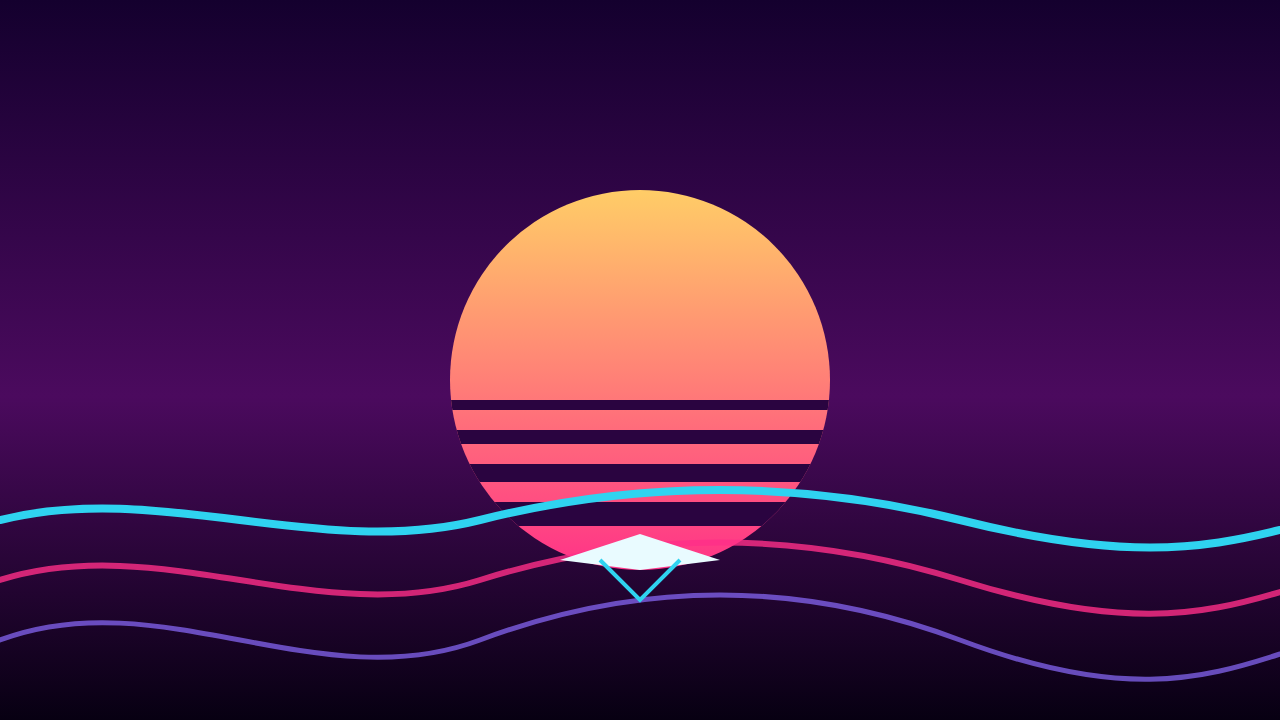
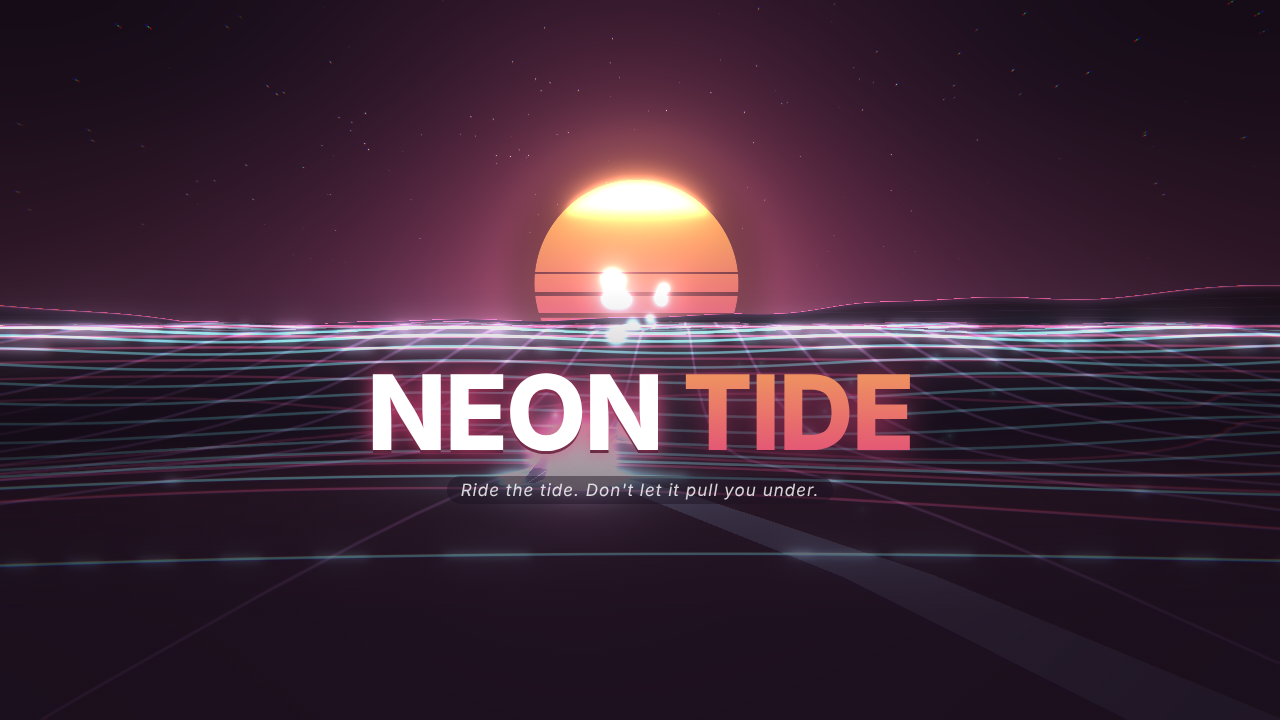
games: Neon Tide (Three.js, adaptive Web Audio score)
Claude-Session: https://claude.ai/code/session_01YPNhuappbemh5BXpNBxwCt

diff --git a/web/public/games/neon-tide/index.html b/web/public/games/neon-tide/index.html
@@ -109,6 +109,7 @@ body.rm #banner.show{animation:none}
 .item .val{font:600 12px var(--mono);color:var(--teal);min-width:46px;text-align:right}
 .item .ctl{display:flex;align-items:center;gap:10px}
 .credit{margin-top:14px;font:500 11px var(--mono);color:rgba(255,255,255,.4);text-align:center;letter-spacing:.06em}
+@media (max-width:600px){#modeTag{display:none}#gap{width:56vw}}
 @media (max-height:520px){#logo{top:12px}#logo h1{font-size:44px}#logo p{margin-top:4px}.item{padding:9px 14px}.panel{padding:16px 20px}#title .foot{display:none}}
 </style>
 </head>
@@ -643,6 +644,7 @@ body.rm #banner.show{animation:none}
     this.applyVolumes();
     this.started = true;
     this.nextT = c.currentTime + 0.08;
+    if (this.pending) this.switchNow();
     this.timer = setInterval(function () { self.tick(); }, 25);
   };
 
@@ -684,7 +686,7 @@ body.rm #banner.show{animation:none}
   P.play = function (name) {
     if (name === this.songName && !this.pending) return;
     this.pending = name;
-    if (!this.ctx) { this.songName = name; this.pending = null; return; }
+    if (!this.ctx) return;
     if (this.songName === 'none' || this.songName === 'caught') this.switchNow();
   };
   P.switchNow = function () {
@@ -1338,7 +1340,7 @@ body.rm #banner.show{animation:none}
   function getMesh(type) {
     var p = pools[type] || (pools[type] = []);
     var m = p.pop();
-    if (!m) { m = makers[type](); scene.add(m); }
+    if (!m) { m = makers[type](); m.userData.type = type; scene.add(m); }
     m.visible = true; return m;
   }
   function releaseAll() { for (var id in live) { var m = live[id]; m.visible = false; pools[m.userData.type].push(m); } live = {}; }
@@ -1746,7 +1748,7 @@ body.rm #banner.show{animation:none}
           if (!isDemo) { audio.sfx('orb', e.chain); if (e.full) toast(isTouch ? 'BOOST READY  ·  two-finger tap' : 'BOOST READY  ·  SHIFT / B'); }
           break;
         case 'gate':
-          var gm = live[e.id]; if (gm) gm.userData.flash = 1;
+          var gm = live[OT.GATE * 1e7 + e.id]; if (gm) gm.userData.flash = 1;
           if (!isDemo) { audio.sfx('gate'); popText(elPop2, 'GATE +300', 'small teal'); }
           break;
         case 'hit': burst(g.s, x, g.y + 1, 20, C.violet, 8, 0.8, 0.6, 8, g.v * 0.2); break;
@@ -1806,7 +1808,9 @@ body.rm #banner.show{animation:none}
     skyU.uSunTop.value.copy(curLook.top); skyU.uSunBot.value.copy(curLook.bot); skyU.uHorizon.value.copy(curLook.hor);
     waterU.uSunCol.value.copy(curLook.bot).lerp(curLook.top, 0.3);
   }
+  var lastRendered = null;
   function render(dt, alpha, g, playing) {
+    if (g !== lastRendered) { releaseAll(); lastRendered = g; }
     timeAcc += dt;
     var td = g.tide, tick = g.tick - 1 + alpha;
     if (state === 'dying' || state === 'pause') tick = g.tick;
@@ -1868,9 +1872,9 @@ body.rm #banner.show{animation:none}
       var ob = g.objs[i], ds = ob.s - base;
       if (ob.type === OT.WHIRL || ds < -20 || ds > 430) continue;
       if (ob.dead && ob.type !== OT.GATE) continue;
-      var m = live[ob.id];
-      if (!m) { m = getMesh(ob.type); m.userData.type = ob.type; m.userData.flash = 0; live[ob.id] = m; }
-      used[ob.id] = 1;
+      var key = ob.type * 1e7 + ob.id, m = live[key];
+      if (!m) { m = getMesh(ob.type); m.userData.flash = 0; live[key] = m; }
+      used[key] = 1;
       var ox = g.roadX(ob.s) + ob.lx, oh = td.height(ob.s, ox, tT);
       m.position.set(ox, oh + ob.yo, -ds);
       if (ob.type === OT.ORB) { m.position.y += Math.sin(timeAcc * 3 + ob.id) * 0.25; m.userData.spin.rotation.y = timeAcc * 2 + ob.id; m.userData.e.rotation.y = m.userData.spin.rotation.y; }
@@ -1937,11 +1941,12 @@ body.rm #banner.show{animation:none}
 
     // camera: behind and slightly above, lags on turns, dips on dives, rises on launches
     var sp = g.speedPct();
-    var camBack = 9.5 + sp * 2.5, camS = s - camBack;
+    var portrait = Math.max(0, Math.min(1, (H / W - 0.8) / 1.2));
+    var camBack = 9.5 + sp * 2.5 + portrait * 6, camS = s - camBack;
     var kx = 1 - Math.exp(-dt * 5);
     run.camX += (cx - run.camX) * kx;
     var camWater = td.height(camS, g.roadX(camS) + lx, tT);
-    var wantY = y + 3.3 + (g.diving && g.ground ? -0.9 : 0) + (!g.ground ? 0.8 + Math.min(2.5, g.air * 1.8) : 0);
+    var wantY = y + 3.3 + portrait * 2.2 + (g.diving && g.ground ? -0.9 : 0) + (!g.ground ? 0.8 + Math.min(2.5, g.air * 1.8) : 0);
     run.camY += (wantY - run.camY) * (1 - Math.exp(-dt * 4.5));
     var cY = Math.max(run.camY, camWater + 1.6);
     run.camLookY += (y + 0.6 - run.camLookY) * (1 - Math.exp(-dt * 7));
@@ -1951,17 +1956,18 @@ body.rm #banner.show{animation:none}
     camera.position.set(camX + shx, cY + shy, camBack);
     var lookS = 18;
     camera.lookAt(g.roadX(s + lookS) + lx * 0.85, run.camLookY + 0.2, -lookS);
-    var wantFov = 62 + (S.reduceMotion ? 5 : 16) * sp + (boosting ? (S.reduceMotion ? 2 : 7) : 0);
+    var wantFov = 62 + portrait * 22 + (S.reduceMotion ? 5 : 16) * sp + (boosting ? (S.reduceMotion ? 2 : 7) : 0);
     run.fov += (wantFov - run.fov) * (1 - Math.exp(-dt * 3));
     camera.fov = run.fov; camera.updateProjectionMatrix();
 
     // backdrop follows camera
     sky.position.copy(camera.position);
     var el = SUN_EL, sd = SUN_DIST;
-    sun.position.set(camera.position.x, Math.sin(el) * sd, camera.position.z - Math.cos(el) * sd);
+    var lookX = g.roadX(s + lookS) + lx * 0.85 - camera.position.x, sunX = camera.position.x + lookX / lookS * sd * 0.55;
+    sun.position.set(sunX, Math.sin(el) * sd, camera.position.z - Math.cos(el) * sd);
     sun.lookAt(camera.position.x, camera.position.y, camera.position.z);
     sunU.uTime.value = timeAcc;
-    skyU.uSunDir.value.set(0, Math.sin(el), -Math.cos(el)).normalize(); skyU.uTime.value = timeAcc;
+    skyU.uSunDir.value.set(sunX - camera.position.x, Math.sin(el) * sd, -Math.cos(el) * sd).normalize(); skyU.uTime.value = timeAcc;
     mountains.position.set(camera.position.x, 202, camera.position.z);
     mtU.uScroll.value = timeAcc * 0.004 + base * 0.00002;
     gridPlane.position.set(camera.position.x, -14, camera.position.z - 1250);
@@ -1979,7 +1985,7 @@ body.rm #banner.show{animation:none}
     if (state === 'dying') storm = Math.min(1.25, 1 + dyingT);
     PU.uStorm.value = storm;
     PU.uScan.value = S.scanlines ? 1 : 0;
-    PU.uGrain.value = S.reduceMotion ? 0.02 : 0.045;
+    PU.uGrain.value = window.__noGrain ? 0 : S.reduceMotion ? 0.02 : 0.045;
     PU.uFlash.value = run.flash; run.flash = Math.max(0, run.flash - dt * 3.5);
     composer.render(dt);
     return storm;
@@ -2096,7 +2102,7 @@ body.rm #banner.show{animation:none}
   show('title');
   song('title');
   post({ type: 'playchain:ready' });
-  window.__nt = { advance: function (n) { for (var i = 0; i < n && state === 'play'; i++) { snap(game); game.step(NT.botInput(game)); handleEvents(game, false); } }, apply: function () { applySettings(); }, state: function () { return state; }, game: function () { return game; }, start: startRun, results: showResults, S: S, save: save };
+  window.__nt = { audio: audio, advance: function (n) { for (var i = 0; i < n && state === 'play'; i++) { snap(game); game.step(NT.botInput(game)); handleEvents(game, false); } }, apply: function () { applySettings(); }, state: function () { return state; }, game: function () { return game; }, start: startRun, results: showResults, S: S, save: save };
   requestAnimationFrame(function (t) { last = t; frame(t); });
 })();
 

diff --git a/web/public/games/neon-tide/CREDITS.md b/web/public/games/neon-tide/CREDITS.md
@@ -1,0 +1,18 @@
+# Neon Tide credits
+
+Game by Steeve (@gamersteeve) for PlayChain Flat.
+
+## Vendored libraries
+
+| File | Library | Licence |
+|------|---------|---------|
+| `three.vendor.min.js` | three.js r187 (core plus EffectComposer, RenderPass, UnrealBloomPass, ShaderPass from `examples/jsm`), tree-shaken and minified with esbuild | MIT, copyright 2010-2025 three.js authors. Full text in `THREE_LICENSE.txt` |
+
+## Assets
+
+All other assets are generated in code at runtime:
+
+- Music (Title, Ride, Results tracks) and every sound effect are synthesised with the Web Audio API. No samples or recordings.
+- Ocean, sun, sky, stars, mountains, craft, orbs, gates, buoys, rocks, pearls, lightning and particles are drawn with WebGL shaders and geometry.
+- The cover image `cover.png` is a screenshot of the game's own title scene.
+- Fonts: system font stack only, nothing is downloaded.

diff --git a/README.md b/README.md
@@ -102,7 +102,7 @@ web/         Vite, React 19, TypeScript, Tailwind, wagmi core + viem
   src/games/         meta.json validation, sandboxed game bridge
   src/screens/       Home, Game, Player, Developers, Activity, About, Settings
   public/games/      Neon Tide, Hollow Kingdom, Signal Lost
-  tests/unit/        Spotlight and race logic, meta validation, bridge, security headers
+  tests/unit/        Spotlight and race logic, meta validation, bridge, security headers, every game's meta.json and cover
   tests/e2e/         mainnet-fork setup + browser test of the full vote flow
 ```
 
